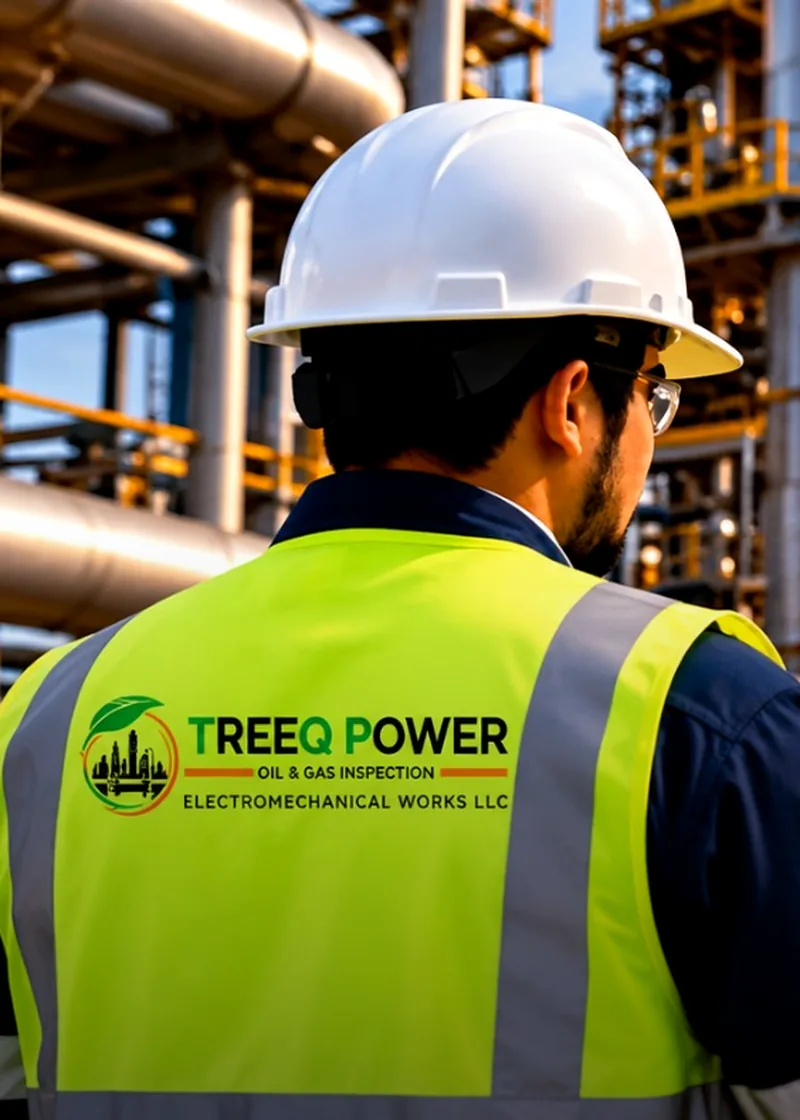
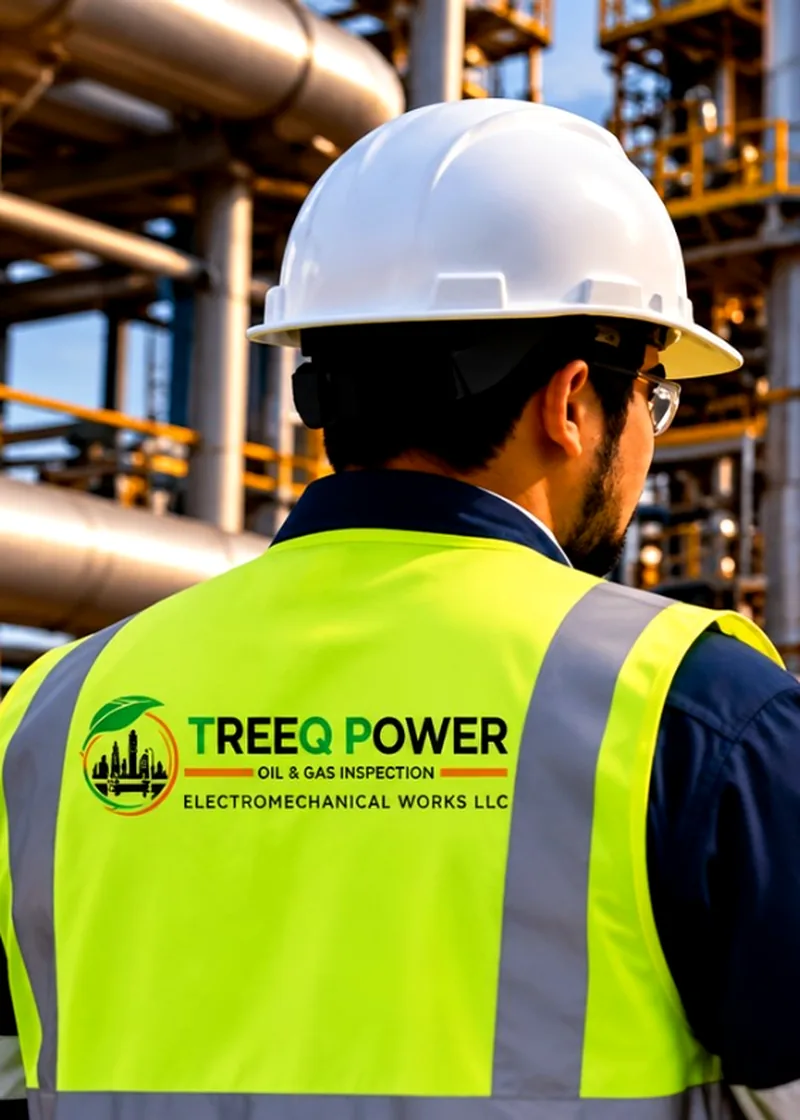
Changes

Changed region(s): [[0.0, 0.5938, 1.0, 1.0]]

diff --git a/src/styles.css b/src/styles.css
@@ -685,6 +685,8 @@
 .home-slider-pause[data-slot="button"]:hover{background:var(--dark-elevated)}
 @media(min-width:1600px){.home-slider .home-photo-copy h1,.home-slide-title{font-size:5.5rem}}
 @media(max-width:1100px){.home-slider .home-photo-copy h1,.home-slide-title{font-size:3.6rem}.home-slider .home-photo-copy{padding-inline:72px}}
+/* Mobile anchors the copy to the bottom, so the dark overlay must rise from below. */
+@media(max-width:767px){.home-photo-wash{background:linear-gradient(0deg,color-mix(in oklab,var(--dark) 93%,transparent),color-mix(in oklab,var(--dark) 62%,transparent) 52%,color-mix(in oklab,var(--dark) 10%,transparent))}}
 @media(max-width:767px){.home-slider{height:calc(100svh - 72px);min-height:740px;max-height:none}.home-hero-slide{align-items:flex-end}.home-slider .home-photo-copy{padding:80px 54px 108px}.home-slider .home-photo-copy h1,.home-slide-title{font-size:2.75rem}.home-slider .home-photo-copy>p:not(.zoho-kicker){font-size:15px;line-height:1.6;margin-top:20px}.home-slider .home-photo-copy>div{margin-top:24px}.home-slider .home-photo-copy>div a{height:auto;min-height:44px;white-space:normal;text-align:center;padding:10px 12px}.home-slider-arrow[data-slot="button"]{width:40px;height:40px}.home-slider-prev{left:6px}.home-slider-next{right:6px}.home-slider-controls{bottom:24px;gap:12px}.home-slider-bar[data-slot="button"]{width:44px}.home-hero-slide-3 img{object-position:68% 50%}}
 @media(max-width:390px){.home-slider .home-photo-copy h1,.home-slide-title{font-size:2.35rem}.home-slider .home-photo-copy{padding-inline:48px}}
 @media(prefers-reduced-motion:reduce){.home-hero-slide{transition:none}}

diff --git a/public/sw.js b/public/sw.js
@@ -5,7 +5,7 @@
      document that points at deleted chunks, but still works offline).
 */
 
-const VERSION = "treeq-v17";
+const VERSION = "treeq-v18";
 const STATIC_CACHE = `${VERSION}-static`;
 const PAGE_CACHE = `${VERSION}-pages`;
 
